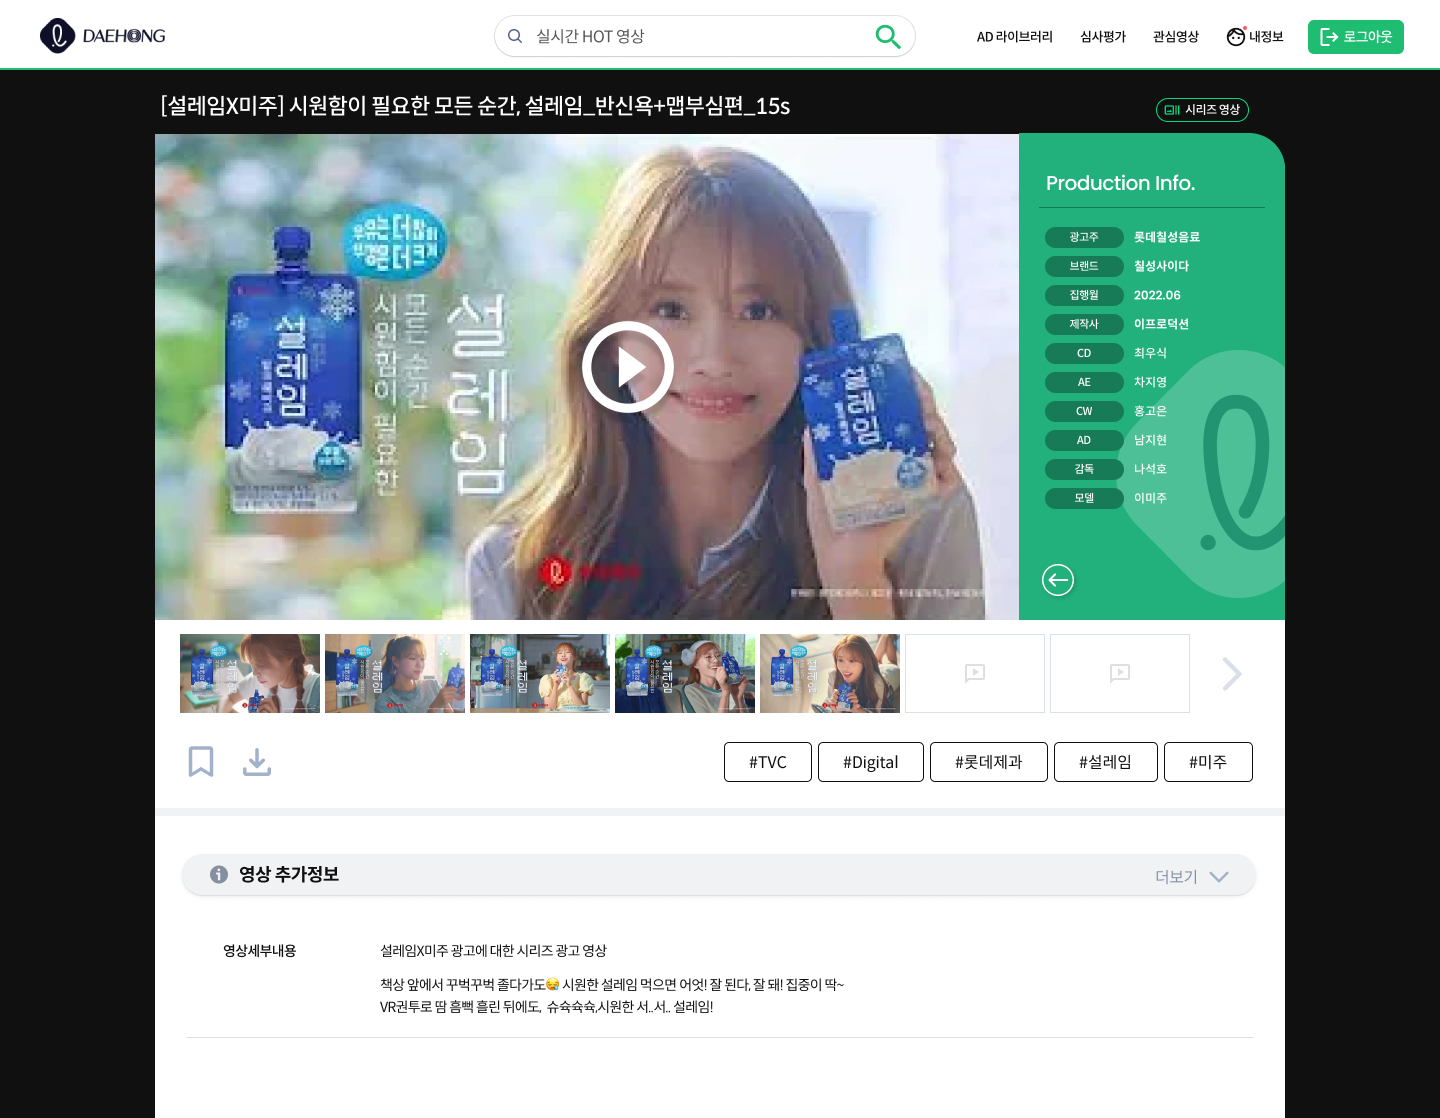
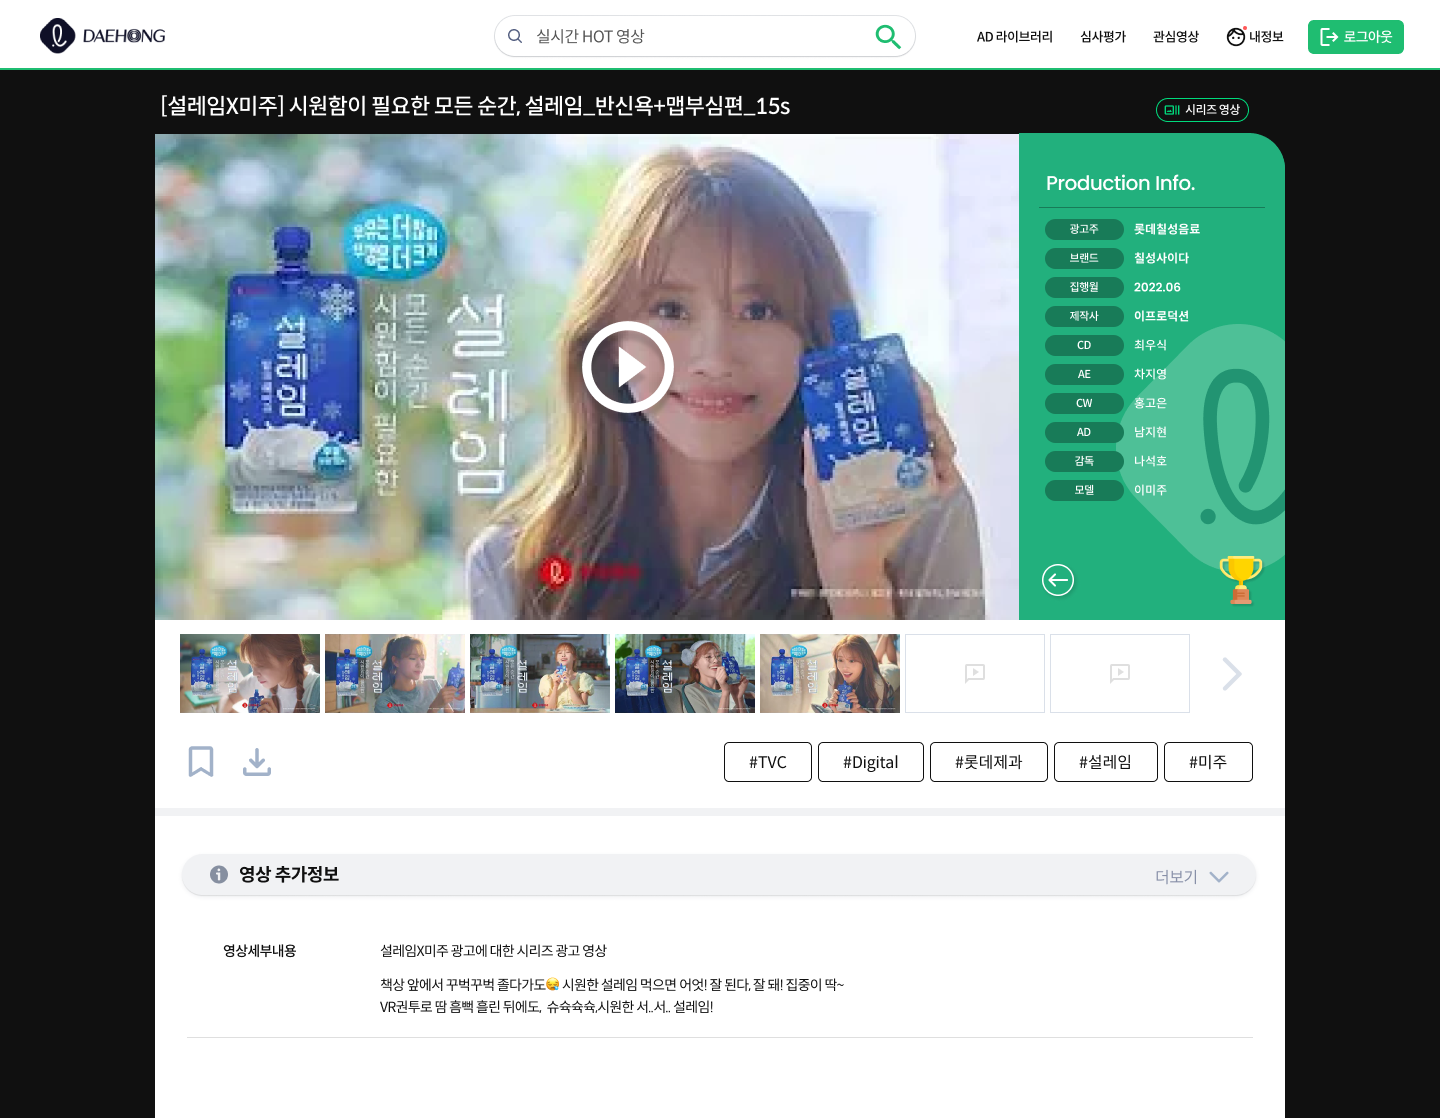
edit commit

Changed region(s): [[0.7188, 0.1825, 0.9062, 0.5474]]

diff --git a/prototype/03.html b/prototype/03.html
@@ -17,7 +17,7 @@
   </style>
 </head>
 <body>
-  <img src="images/prize.gif" class="award" alt="">
+  <!-- <img src="images/prize.gif" class="award" alt=""> -->
   <a href="04.html" ><img src="images/0_sub_3.png" alt=""></a>
 </body>
 </html>
